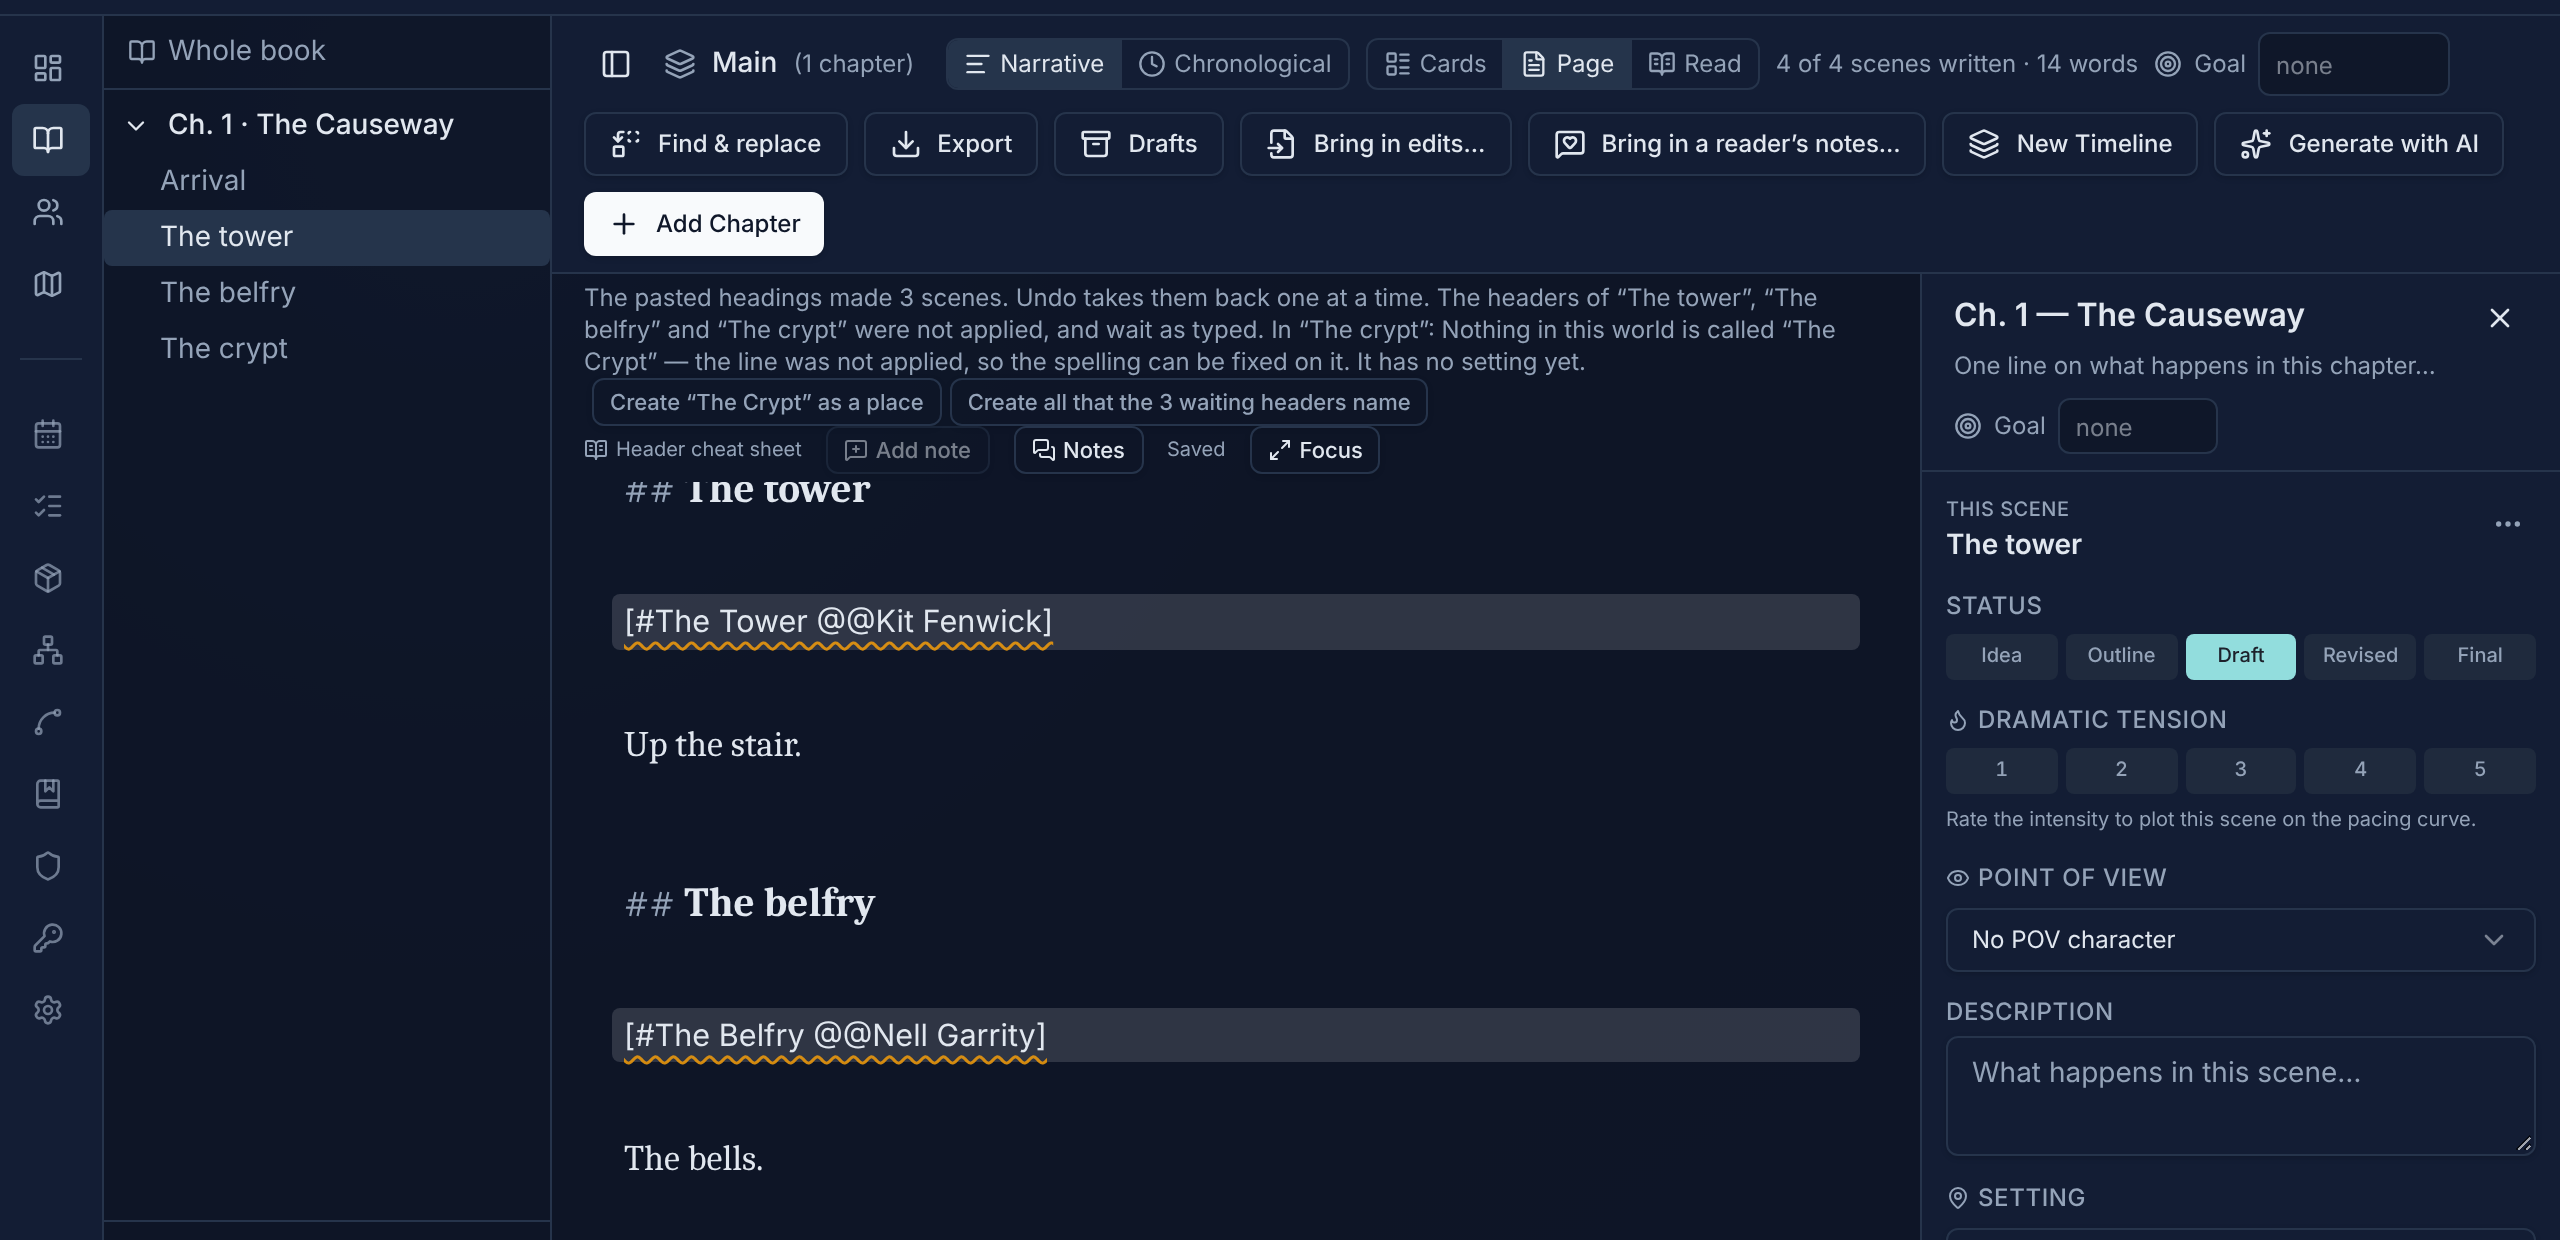
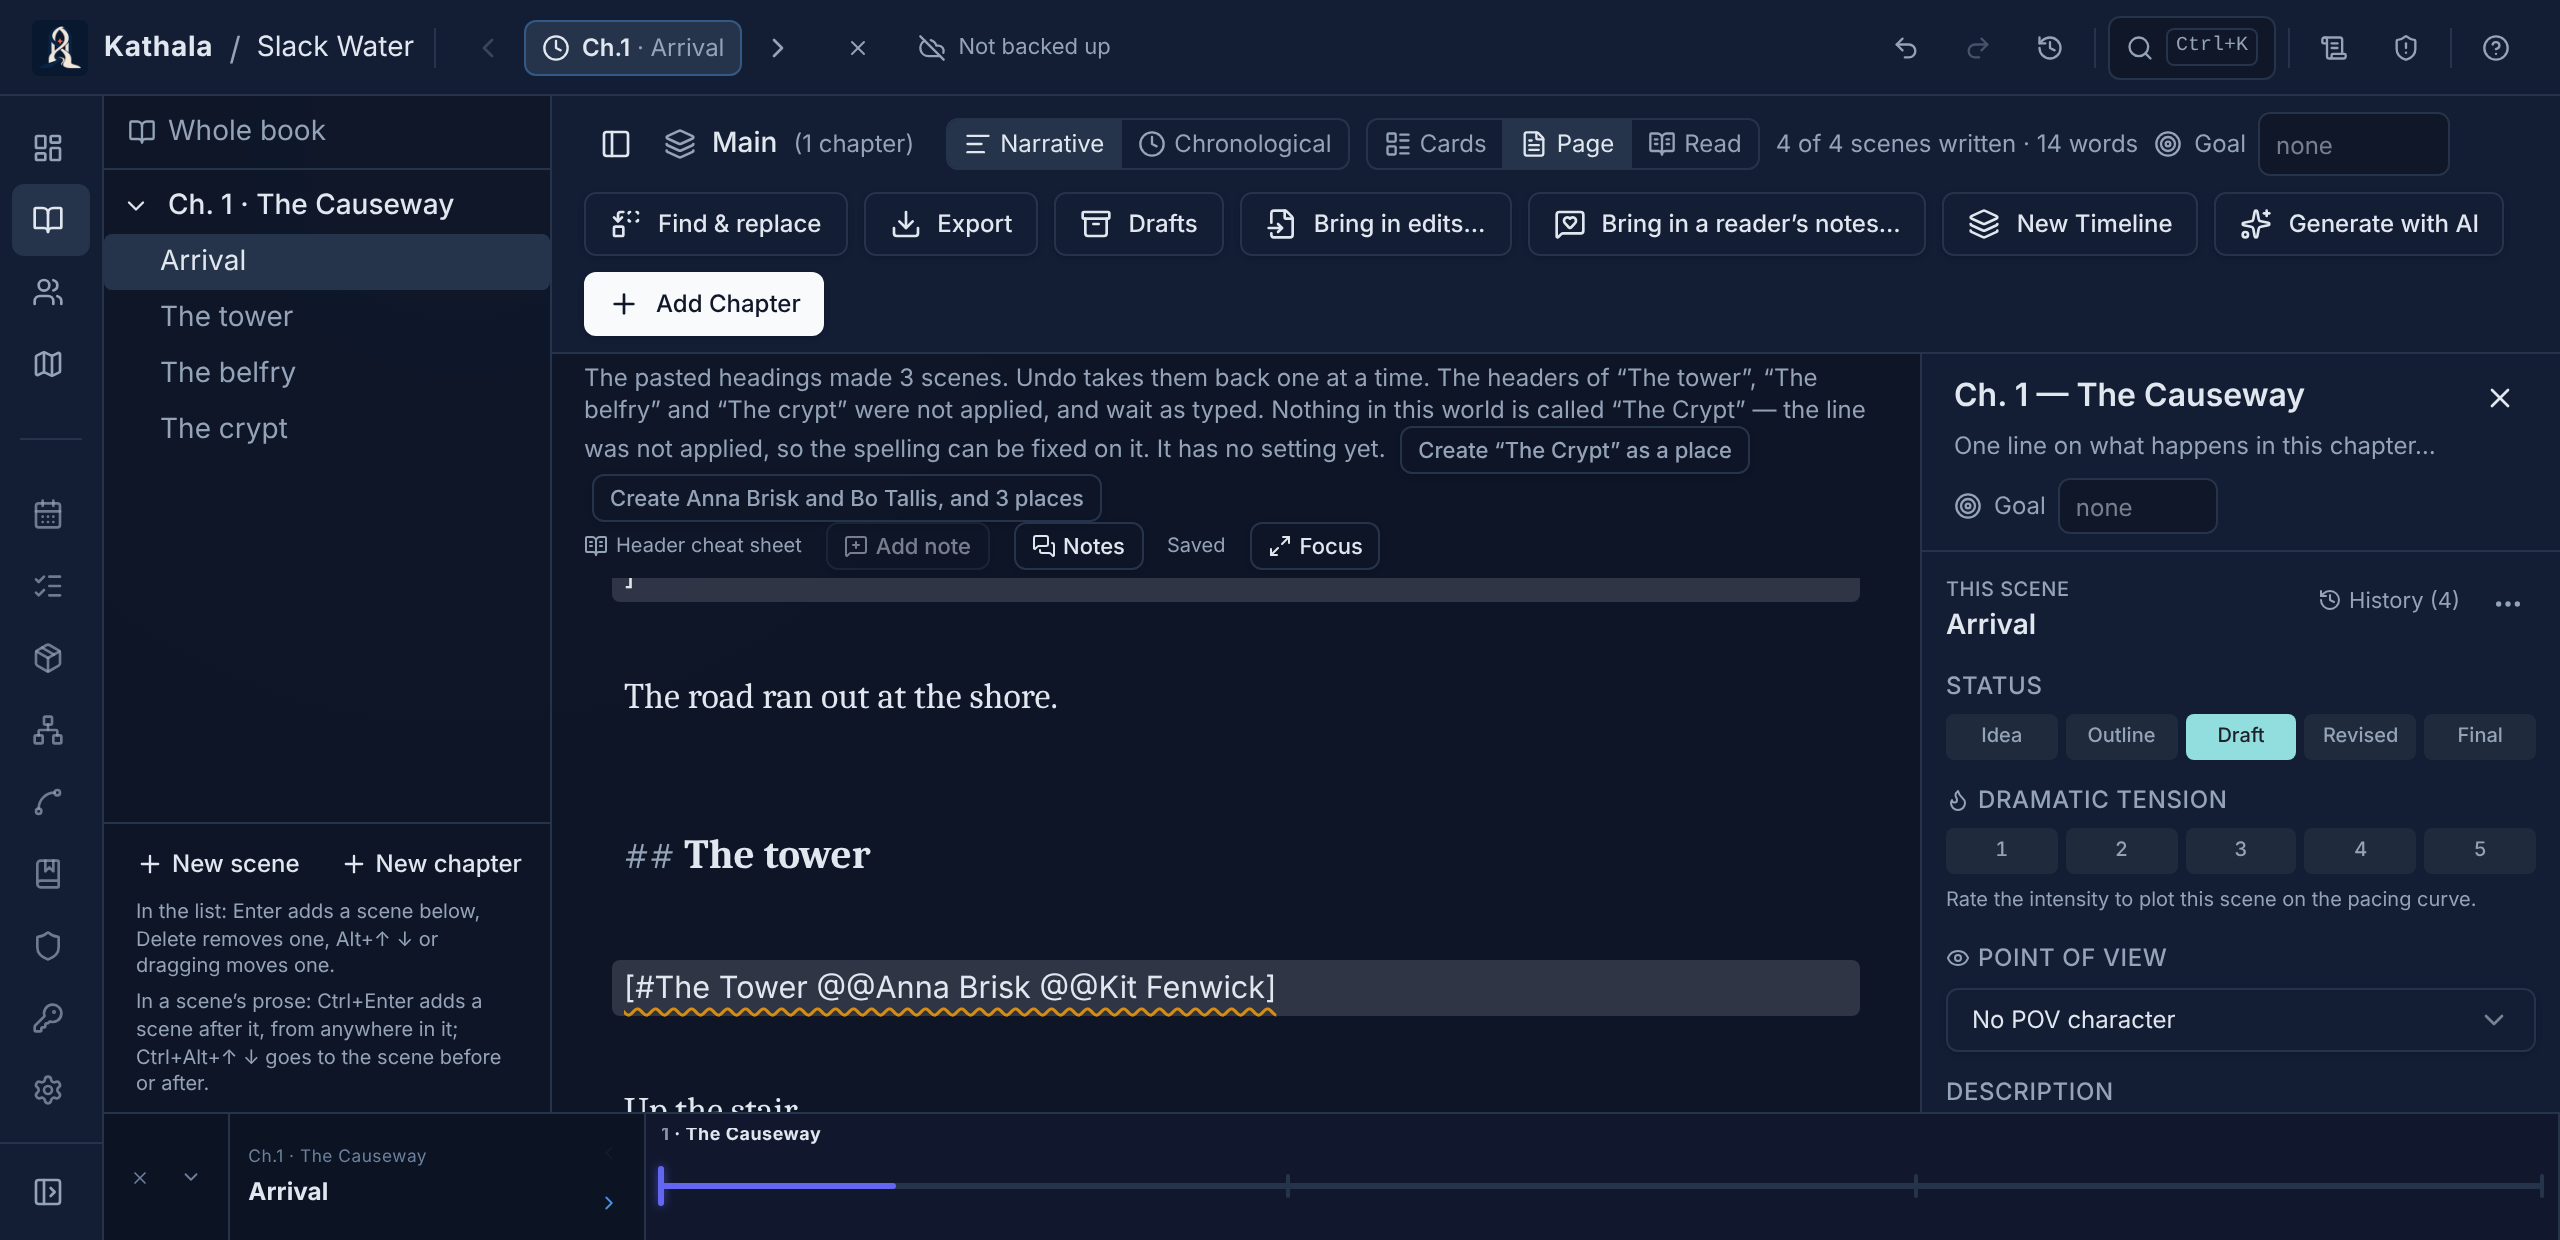
T21.1: the guide's screenshot of waiting headers, Create all naming whom it makes
Claude-Session: https://claude.ai/code/session_012HJuZ3q12imk2q9iq8d945

diff --git a/docs/GUIDE.md b/docs/GUIDE.md
@@ -1143,7 +1143,7 @@ click below it starts the scene rather than lengthening its title.
   first where one is. Once they are applied, the note no longer says the
   headers wait.
 
-  ![Three pasted scenes whose headers name places the world has not got: each header underlined, the note on one of them, and Create all](images/131-waiting-headers.png)
+  ![Three pasted scenes whose headers name people and places the world has not got: a header underlined, the note on one of them, and Create all naming the two people it will make and counting the places](images/131-waiting-headers.png)
 
   A header
   pasted as the first lines of a scene that has none yet — typed `## Title`,
